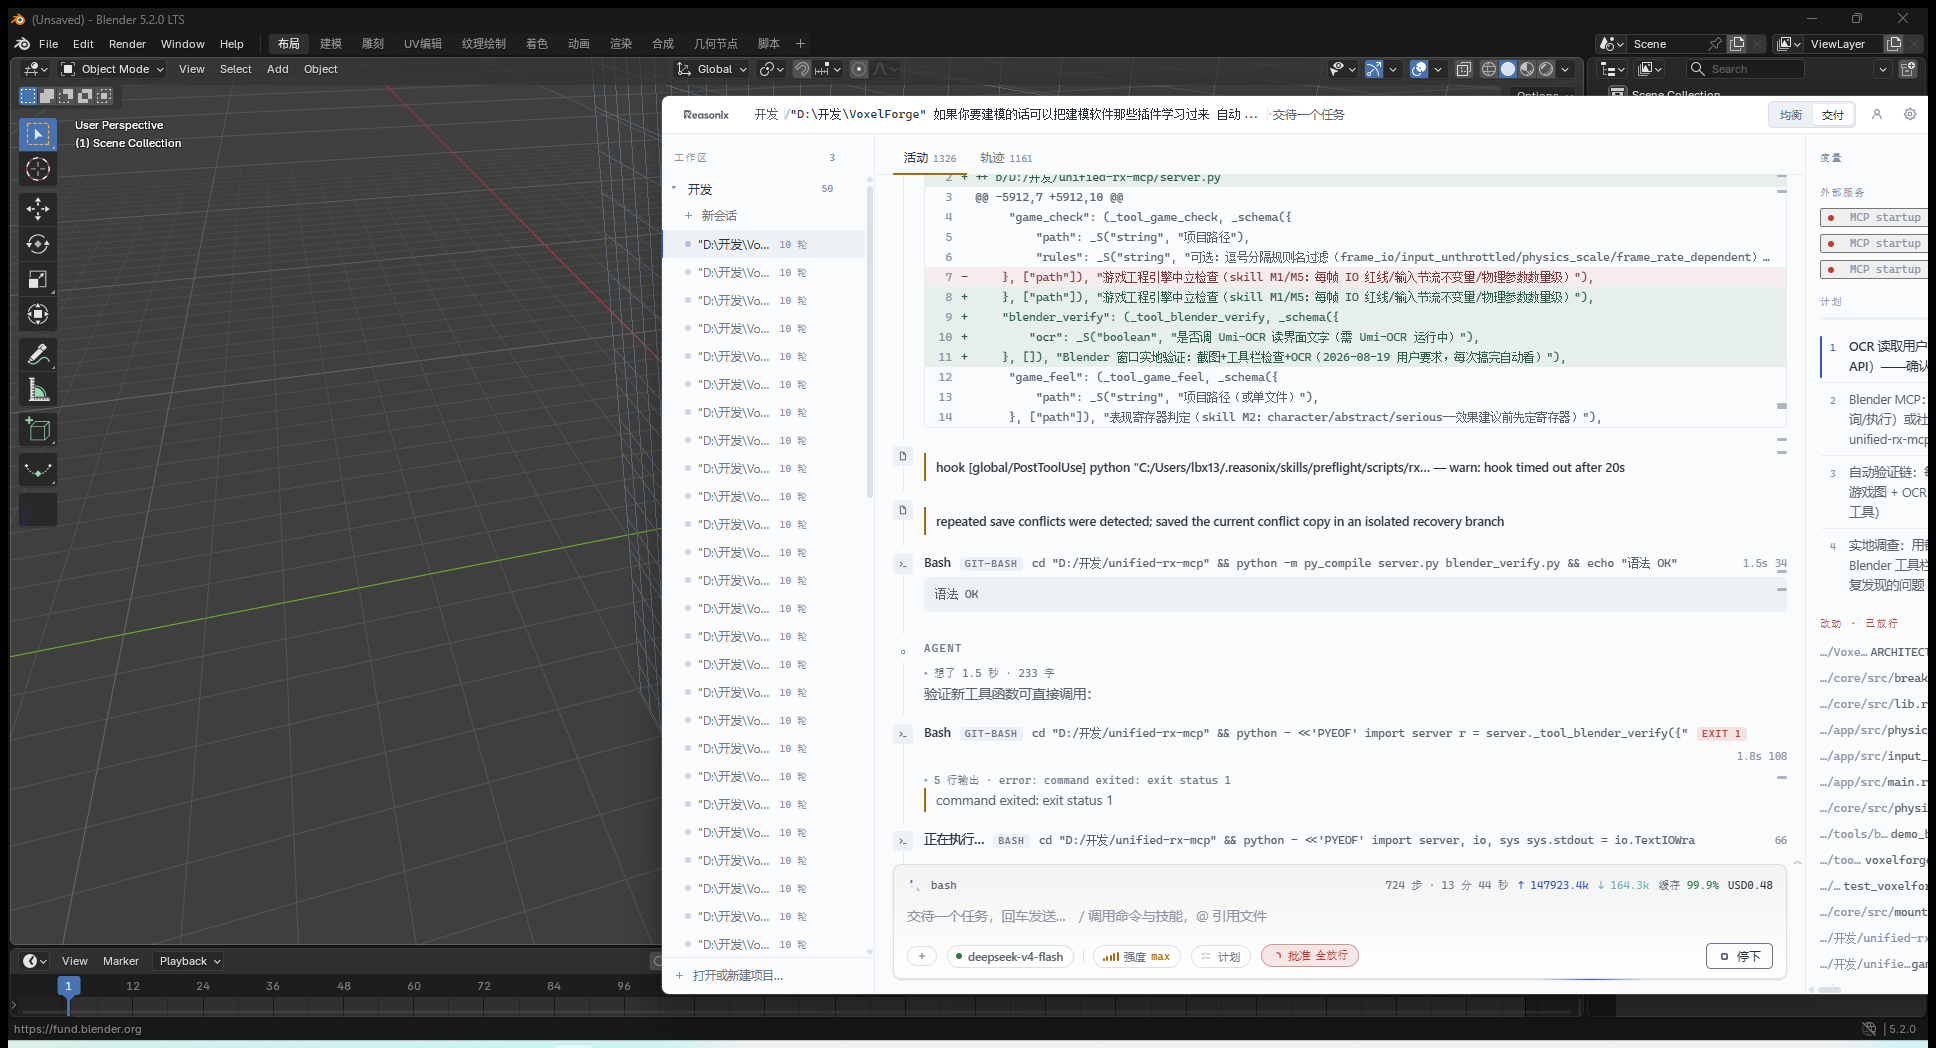
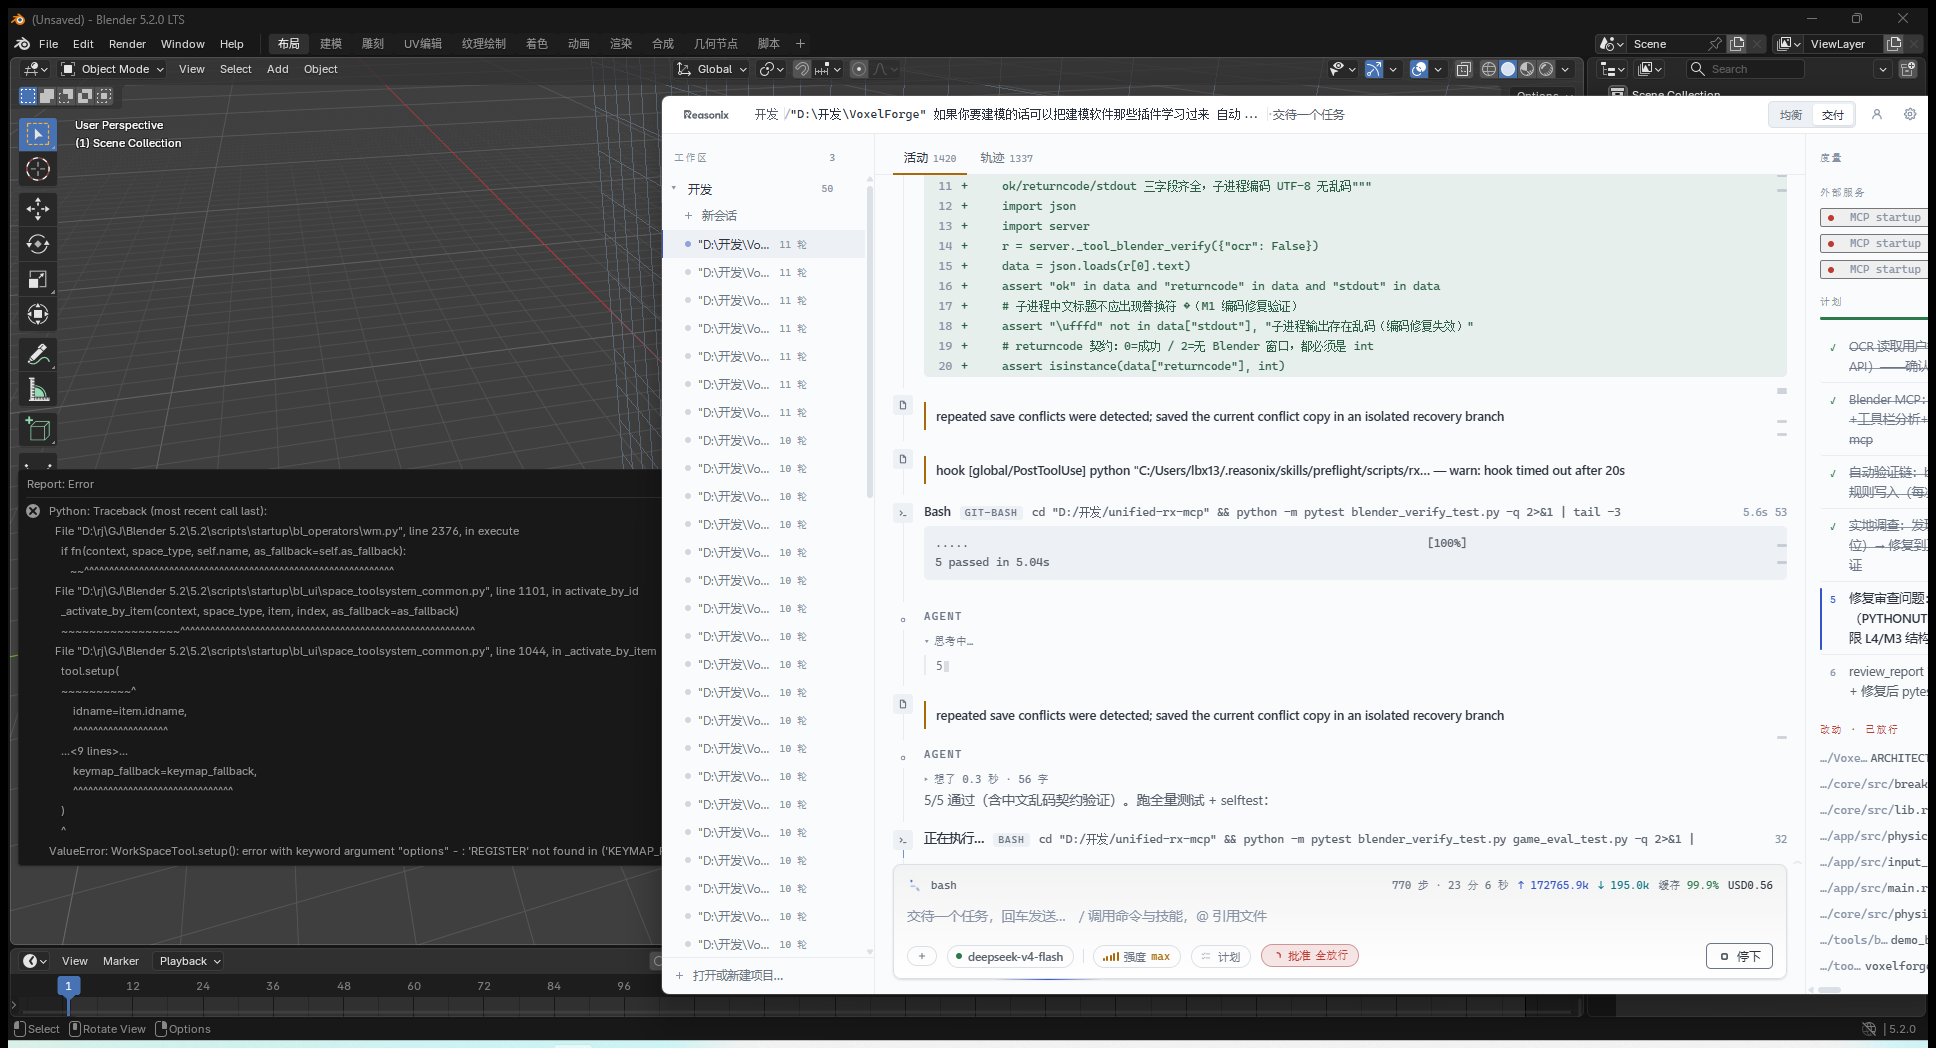
fix: mcp-developer+review 审查修复——M1 子进程中文乱码/M2 权限 L4/M3 结构化返回 + 测试弱点
- M1: PYTHONUTF8 env + stdout.reconfigure(utf-8) 双保险（实测 GBK 管道乱码根因）
- M2: ide_permission TOOL_LEVELS 登记 blender_verify=L4（执行类工具显式授权）
- M3: _tool_blender_verify 返回结构化 JSON（ok/returncode/stdout/stderr）
- L1 删死代码 ocr()/L2 --ocr-file 参数保护/L3 getdata→get_flattened_data
- L5 集成测试（monkeypatch fake subprocess 验证编码契约无乱码；build_opener 移入 try——测试暴露的真实容错缺口）
- review 修正：OCR 测试不再恒真、M1 断言不依赖真实窗口、BOTTOM_ICON_THRESHOLD 常量化
- 验证：pytest 14/14 + selftest 101 tools

diff --git a/blender_verify.py b/blender_verify.py
@@ -10,8 +10,17 @@
 import os
 import sys
 
+# M1 修复（mcp-developer 审查 2026-08-19）：Windows 管道下默认 GBK 输出
+# → 父进程 utf-8 解码中文全乱码。强制 UTF-8 输出（双保险：env 见 server.py）
+if hasattr(sys.stdout, "reconfigure"):
+    sys.stdout.reconfigure(encoding="utf-8")
+    sys.stderr.reconfigure(encoding="utf-8")
+
 OUT_DEFAULT = os.path.join(os.path.dirname(os.path.abspath(__file__)),
                            "blender_verify.png")
+
+# 底部图标判定阈值（底部两段白色像素和 > 阈值 = 有图标）——常量供测试引用
+BOTTOM_ICON_THRESHOLD = 20
 
 
 def find_blender_window():
@@ -55,7 +64,7 @@ def analyze_toolbar(img):
     w, h = gray.size
     tb_w = 64  # 工具栏宽度（Blender 默认 ~50-64px）
     tb = gray.crop((0, 0, min(tb_w, w), h))
-    px = list(tb.getdata())
+    px = list(tb.get_flattened_data())
     white = sum(1 for p in px if p > 150)
     total = len(px)
     # 分 8 段看分布
@@ -64,31 +73,9 @@ def analyze_toolbar(img):
         y0 = i * h // 8
         y1 = (i + 1) * h // 8
         seg = tb.crop((0, y0, tb_w, y1))
-        sp = list(seg.getdata())
+        sp = list(seg.get_flattened_data())
         segs.append(sum(1 for p in sp if p > 150))
     return {"white_ratio": white / total, "segments": segs, "tb_width": tb_w}
-
-
-def ocr(img):
-    """调本地 Umi-OCR HTTP API（127.0.0.1:1224）→ 文本行"""
-    import base64
-    import io
-    import json
-    import urllib.request
-    buf = io.BytesIO()
-    img.save(buf, format="PNG")
-    payload = json.dumps({"base64": base64.b64encode(buf.getvalue()).decode()}).encode()
-    req = urllib.request.Request(
-        "http://127.0.0.1:1224/api/ocr", data=payload,
-        headers={"Content-Type": "application/json"})
-    with urllib.request.urlopen(req, timeout=30) as resp:
-        data = json.loads(resp.read().decode())
-    lines = []
-    for item in data.get("data", []):
-        t = item.get("text", "").strip()
-        if t:
-            lines.append(t)
-    return lines
 
 
 def ocr_file(path):
@@ -103,8 +90,9 @@ def ocr_file(path):
         "http://127.0.0.1:1224/api/ocr", data=payload,
         headers={"Content-Type": "application/json"})
     # 禁用系统代理（curl 直连正常但 urllib 走代理被拒——2026-08-19 实地发现）
-    opener = urllib.request.build_opener(urllib.request.ProxyHandler({}))
+    # build_opener 也放入 try（opener 构造失败同样容错——测试暴露）
     try:
+        opener = urllib.request.build_opener(urllib.request.ProxyHandler({}))
         with opener.open(req, timeout=30) as resp:
             data = json.loads(resp.read().decode())
     except Exception as e:
@@ -125,6 +113,9 @@ def main():
         out = args[args.index("--out") + 1]
     # 纯 OCR 模式：只读已有截图
     if "--ocr-file" in args:
+        if args.index("--ocr-file") + 1 >= len(args):
+            print("用法: --ocr-file <png路径>")
+            return 2
         path = args[args.index("--ocr-file") + 1]
         lines = ocr_file(path)
         print(f"OCR({len(lines)}行): {lines[:25]}")
@@ -143,7 +134,7 @@ def main():
           f"段分布(上→下)={info['segments']}")
     # 底部两段（6/7 段）有白色 → 底部有图标
     bottom_white = info["segments"][6] + info["segments"][7]
-    print(f"BOTTOM_ICON: {'YES' if bottom_white > 20 else 'NO'} "
+    print(f"BOTTOM_ICON: {'YES' if bottom_white > BOTTOM_ICON_THRESHOLD else 'NO'} "
           f"(底部白色像素={bottom_white})")
     if do_ocr:
         lines = ocr_file(out)

diff --git a/blender_verify_test.py b/blender_verify_test.py
@@ -32,7 +32,44 @@ def test_analyze_toolbar_empty_bottom():
     assert bottom == 0
 
 
-def test_ocr_file_tolerates_down_server():
-    """Umi-OCR 未启动时容错（返回错误行而非崩溃）"""
+def test_ocr_file_tolerates_down_server(monkeypatch):
+    """Umi-OCR 不可达时返回明确的失败行（monkeypatch——不依赖服务状态）"""
+    def _raise(*a, **k):
+        raise OSError("connection refused")
+    import urllib.request
+    monkeypatch.setattr(urllib.request, "build_opener", _raise)
     lines = bv.ocr_file(bv.OUT_DEFAULT)
-    assert isinstance(lines, list)
+    assert isinstance(lines, list) and lines
+    assert "OCR 失败" in lines[0]
+
+
+def test_encoding_contract_no_mojibake(monkeypatch):
+    """M1 集成契约（不依赖真实 Blender 窗口）：子进程输出中文
+    （含 GBK 场景）→ 父进程 JSON 返回无替换符乱码"""
+    import json
+    import subprocess as sp
+    import server
+
+    class FakeResult:
+        returncode = 0
+        stdout = "WINDOW: Blender 测试 rect=(0,0,100,100)\nTOOLBAR: 段分布正常\n"
+        stderr = ""
+
+    def _fake_run(cmd, **kwargs):
+        # 验证编码契约被正确传递（env 含 PYTHONUTF8）
+        env = kwargs.get("env", {})
+        assert env.get("PYTHONUTF8") == "1", "子进程未强制 UTF-8"
+        assert kwargs.get("encoding") == "utf-8"
+        return FakeResult()
+
+    monkeypatch.setattr(sp, "run", _fake_run)
+    r = server._tool_blender_verify({"ocr": False})
+    data = json.loads(r[0].text)
+    assert data["ok"] is True and data["returncode"] == 0
+    assert "\ufffd" not in data["stdout"], "中文被替换符损坏（M1 修复失效）"
+    assert "Blender 测试" in data["stdout"]
+
+
+def test_bottom_icon_threshold_logic():
+    """判定阈值常量化：BOTTOM_ICON_THRESHOLD 可被测试引用（>=20 像素）"""
+    assert bv.BOTTOM_ICON_THRESHOLD == 20

diff --git a/server.py b/server.py
@@ -2296,19 +2296,28 @@ def _tool_blender_verify(args: dict) -> "list[types.TextContent]":
 
     每次搞完 Blender 相关改动后必须调用本工具实地查看（用户：'每次搞完都要
     自动看一下'）。"""
-    import subprocess
-    import sys as _sys
     script = os.path.join(os.path.dirname(os.path.abspath(__file__)),
                           "blender_verify.py")
-    cmd = [_sys.executable, script]
+    cmd = [sys.executable, script]
     if args.get("ocr"):
         cmd.append("--ocr")
     try:
+        # M1（mcp-developer 审查）：PYTHONUTF8 强制子进程 UTF-8 输出
+        # （blender_verify.py 内已 reconfigure 双保险）
+        env = {**os.environ, "PYTHONUTF8": "1", "PYTHONIOENCODING": "utf-8"}
         r = subprocess.run(cmd, capture_output=True, text=True,
-                           timeout=90, encoding="utf-8", errors="replace")
-        return [_TC(r.stdout + "\n" + r.stderr)]
+                           timeout=90, encoding="utf-8", errors="replace",
+                           env=env)
+        # M3：结构化返回（含 returncode——NO_BLENDER_WINDOW=2 可识别）
+        return [_TC(json.dumps({
+            "ok": r.returncode == 0,
+            "returncode": r.returncode,
+            "stdout": r.stdout,
+            "stderr": r.stderr,
+        }, ensure_ascii=False, indent=2))]
     except Exception as e:
-        return [_TC(f"blender_verify 失败: {e}")]
+        return [_TC(json.dumps({"ok": False, "error": str(e)},
+                               ensure_ascii=False, indent=2))]
 
 
 def _tool_game_feel(args: dict) -> "list[types.TextContent]":

diff --git a/ide_permission.py b/ide_permission.py
@@ -69,6 +69,9 @@ TOOL_LEVELS: dict[str, int] = {
     "train_export": L4,
     "local_run": L4,
     "local_tools": L4,
+    # 2026-08-19（mcp-developer 审查 M1/M2）：blender_verify 执行子进程
+    # （截图 + 写 PNG + 本地 HTTP OCR）——执行类工具登记 L4 显式授权
+    "blender_verify": L4,
     "scan_now": L2,
     "scan_delta": L2,
     "scan_all": L2,
